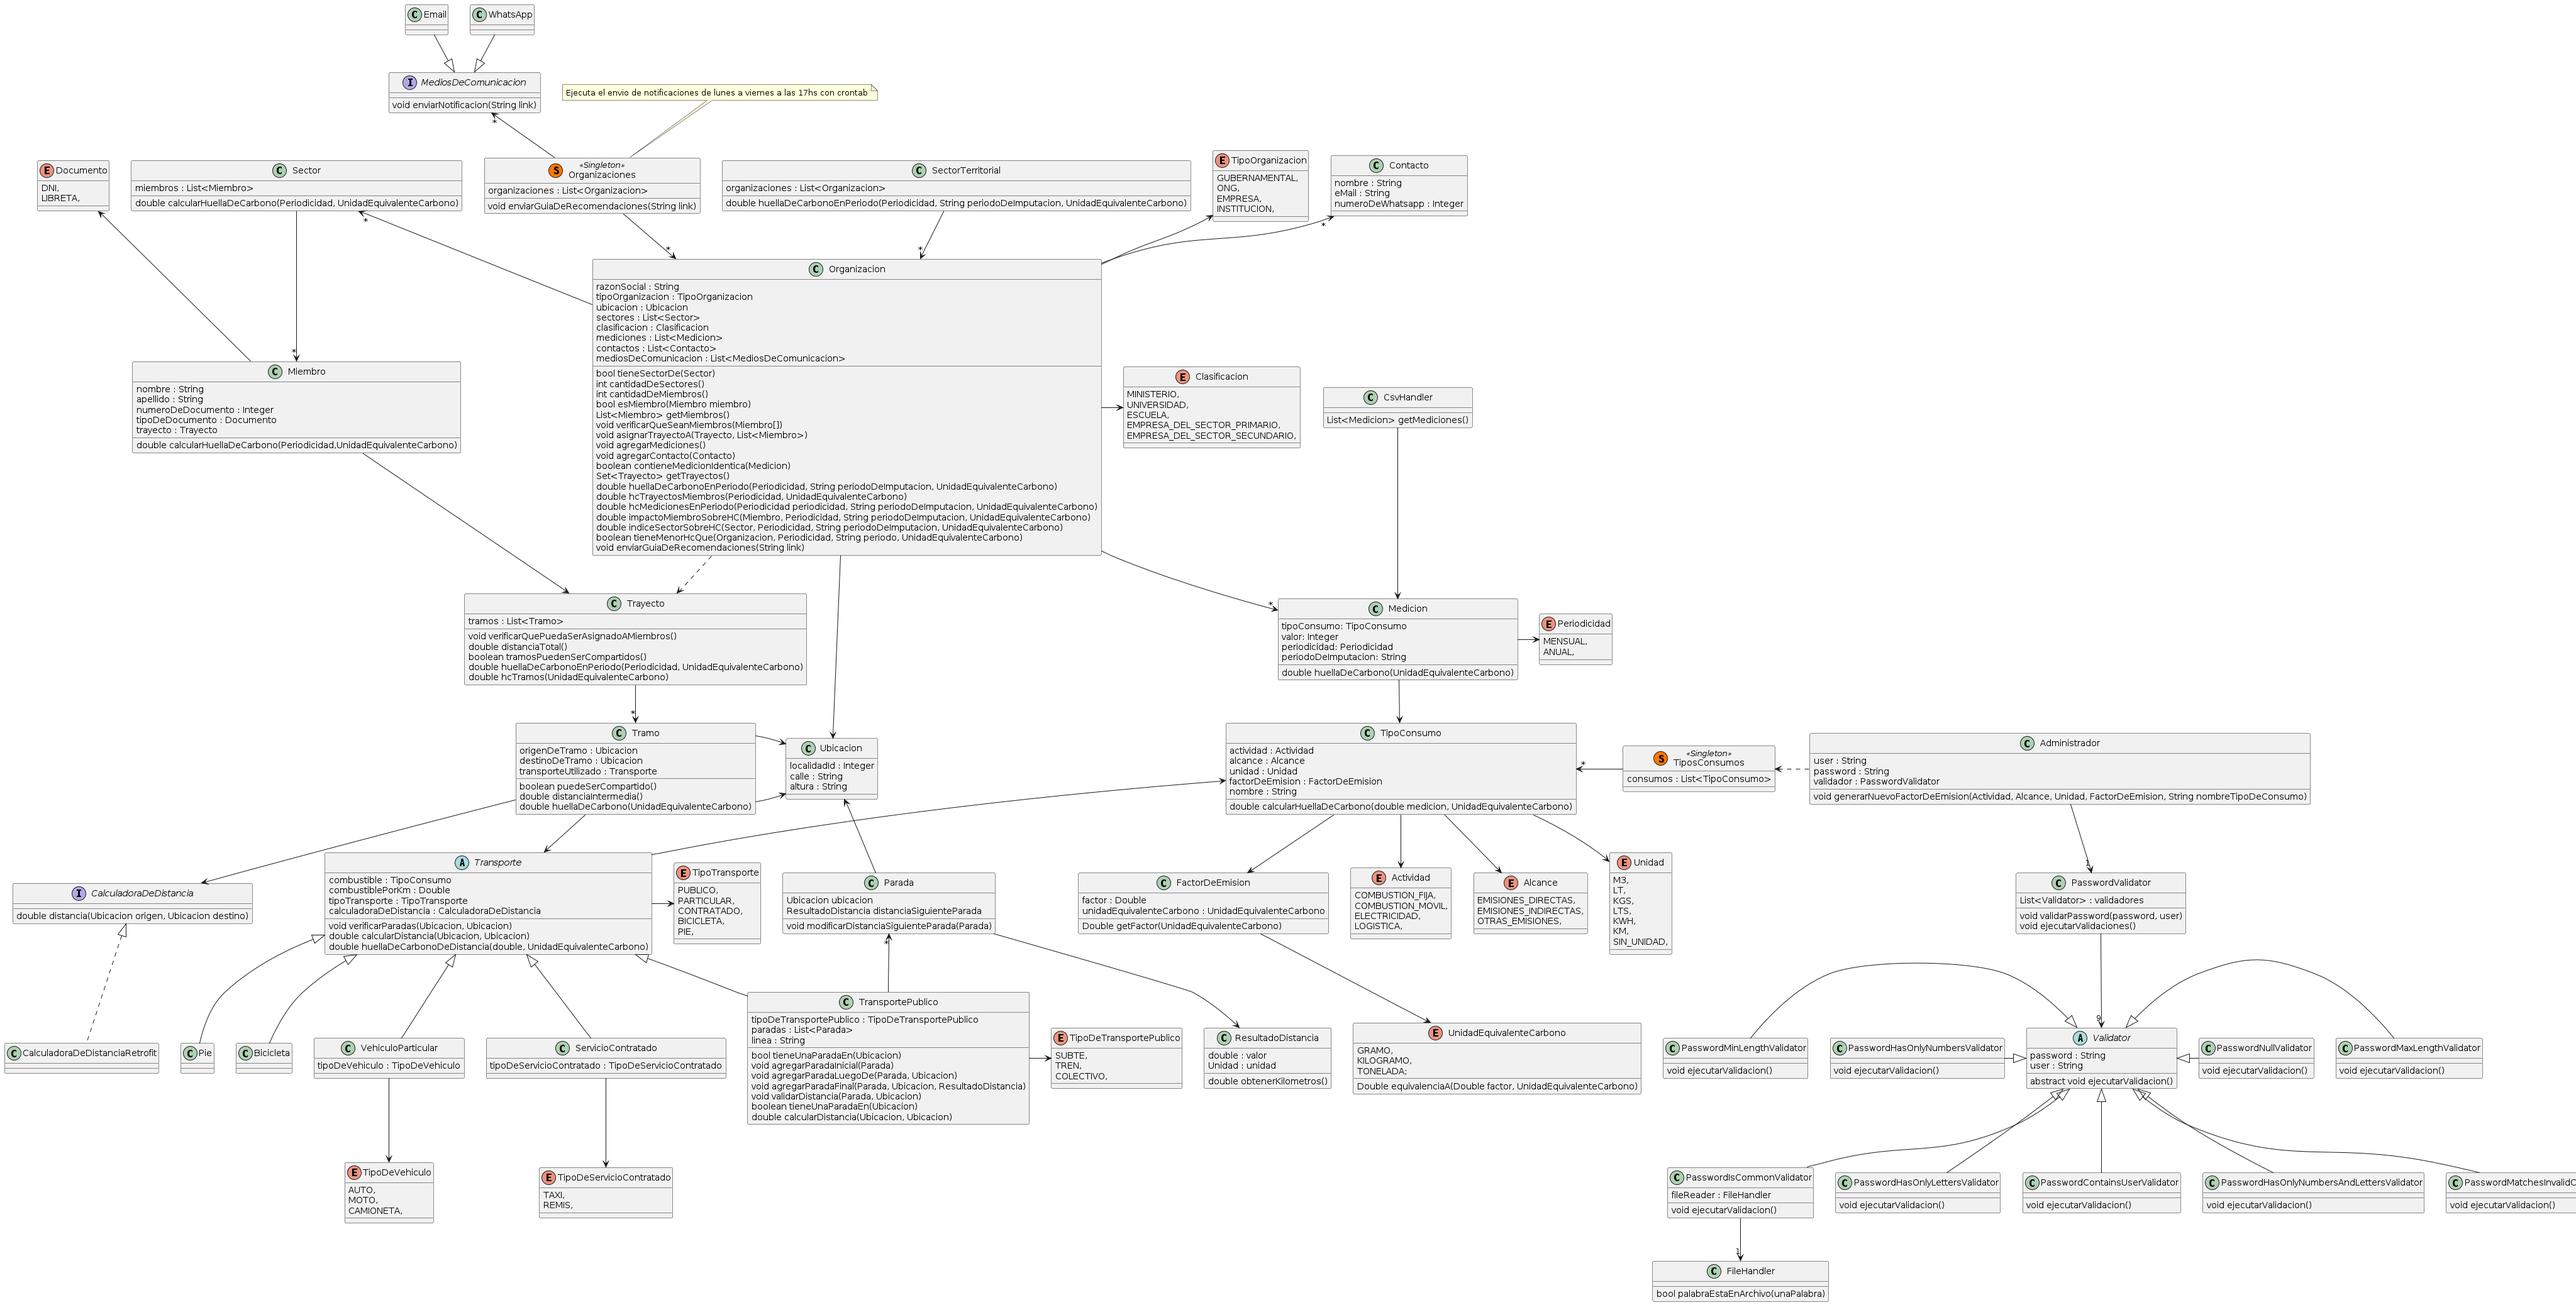
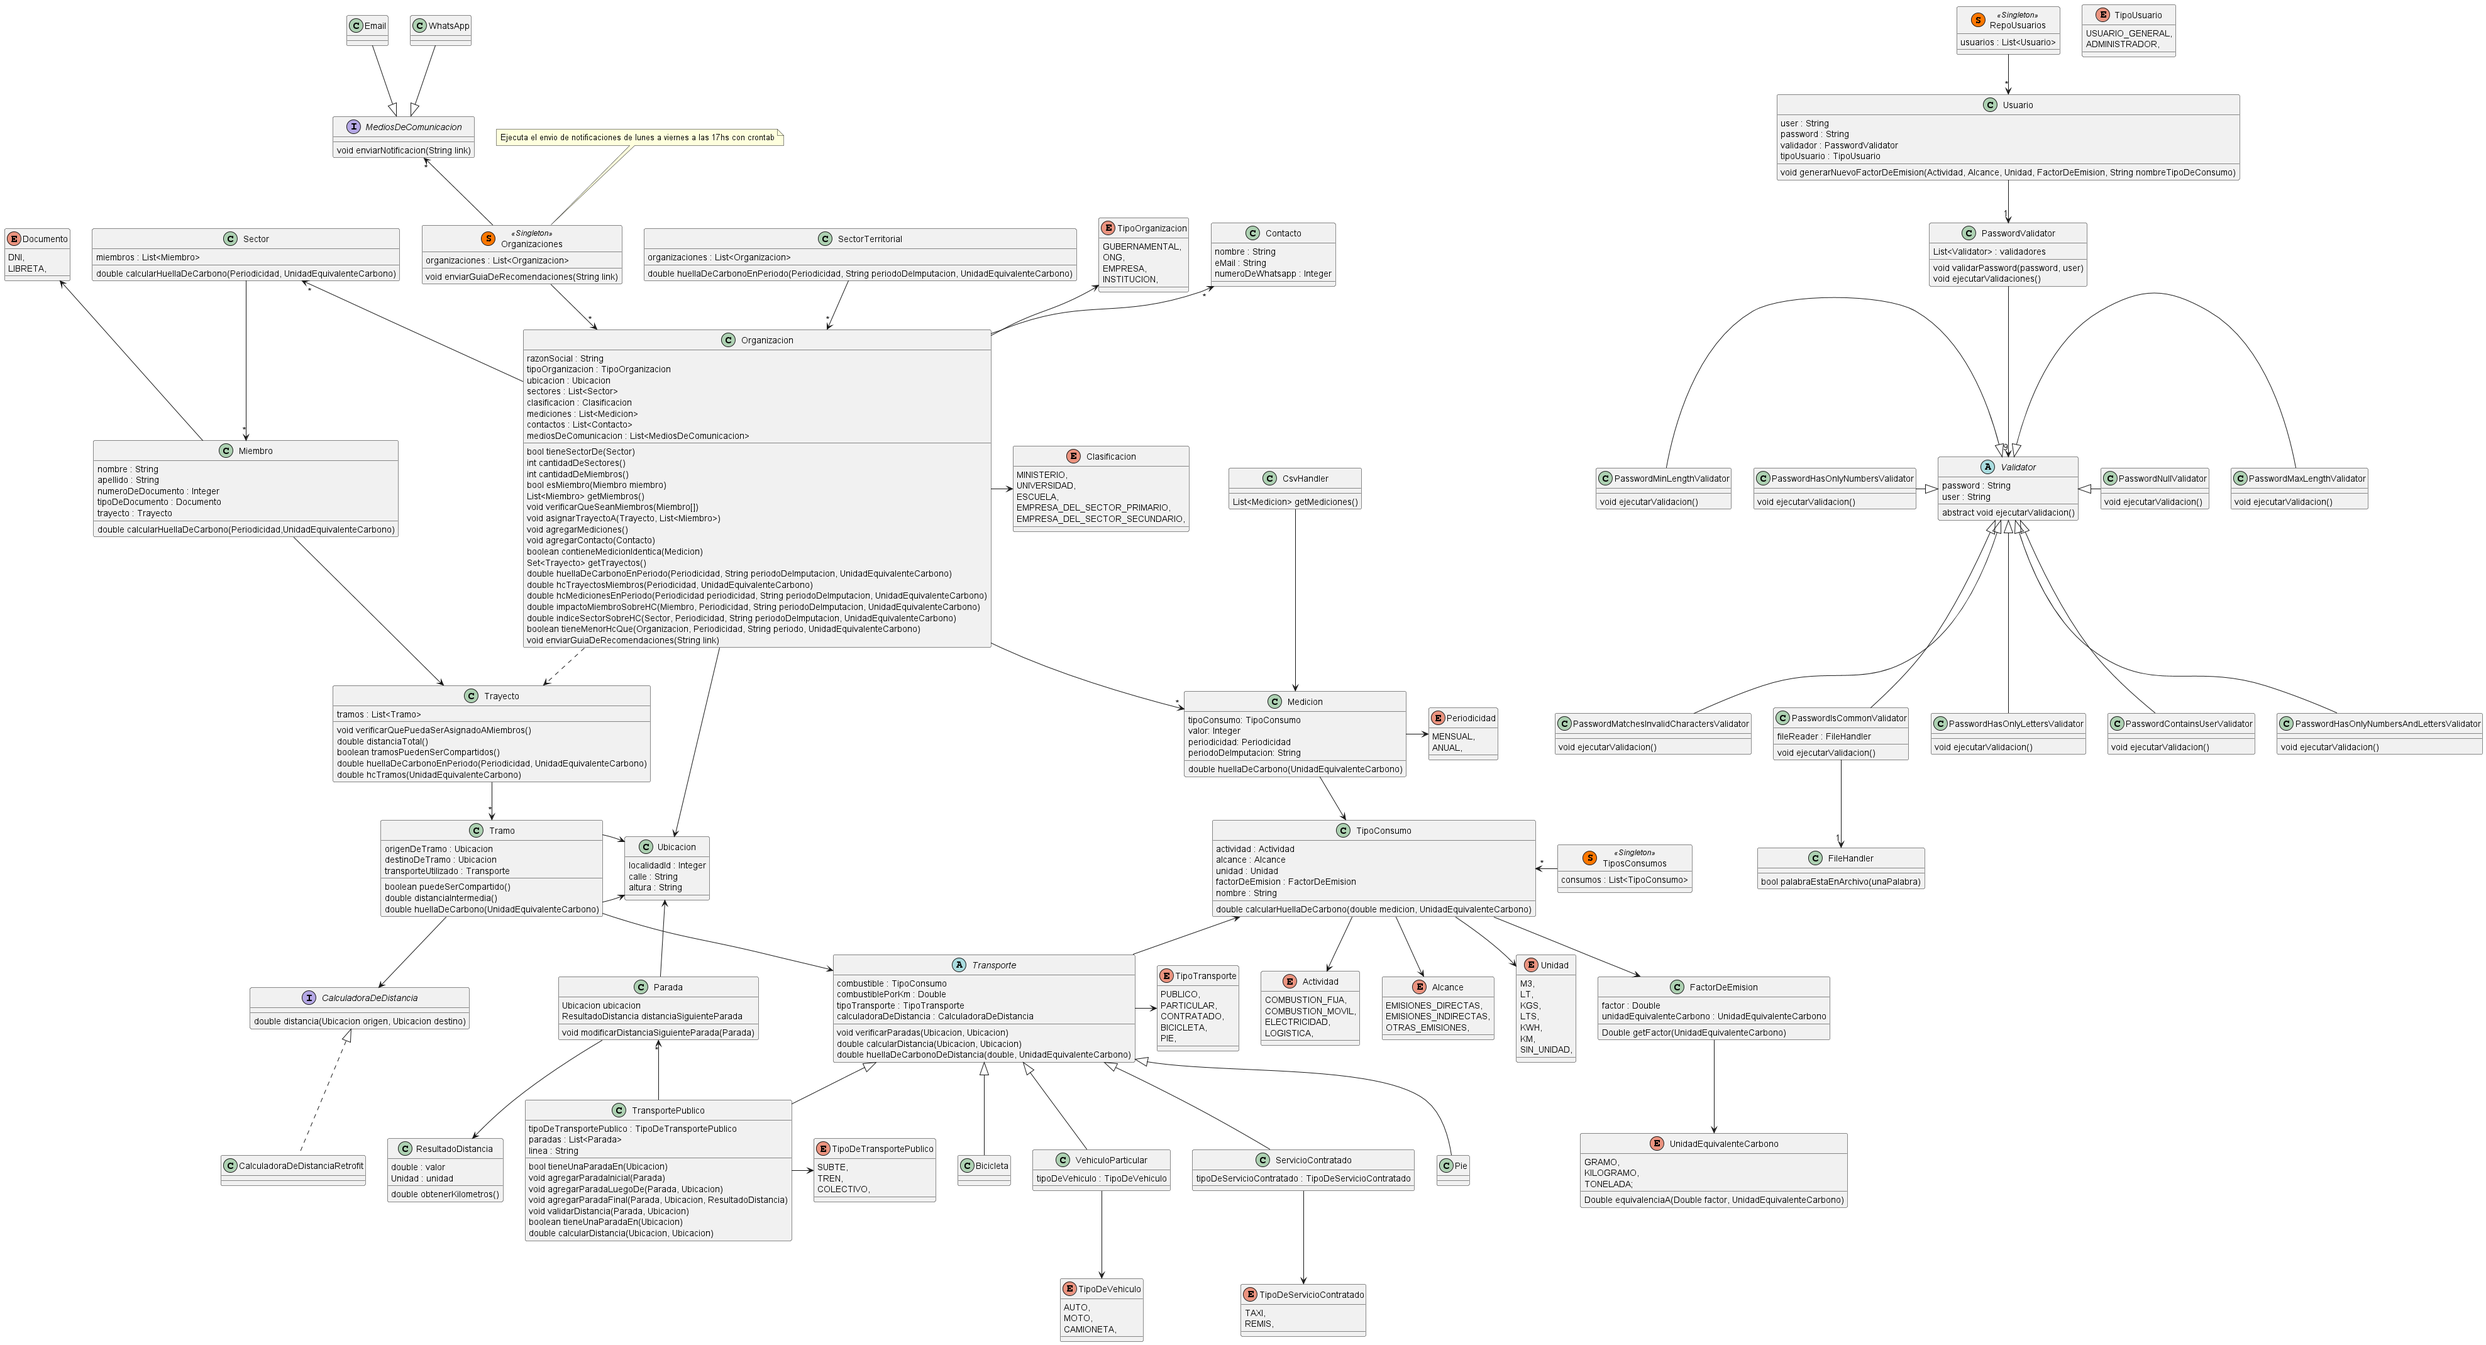
Modificado: Administrador a Usuario en diagramas

diff --git a/src/main/java/domain/administrador/Usuario.java b/src/main/java/domain/administrador/Usuario.java
@@ -37,6 +37,7 @@ public class Usuario {
     this.password = password;
   }
 
+  /* Esto es una accion de un actor, no un metodo de una clase
   public void generarNuevoFactorDeEmision(Actividad actividad,
                                           Alcance alcance,
                                           Unidad unidad,
@@ -46,5 +47,7 @@ public class Usuario {
         new TipoConsumo(actividad, alcance, unidad, factorDeEmision, nombreTipoDeConsumo)
     );
   }
+
+   */
 
 }
